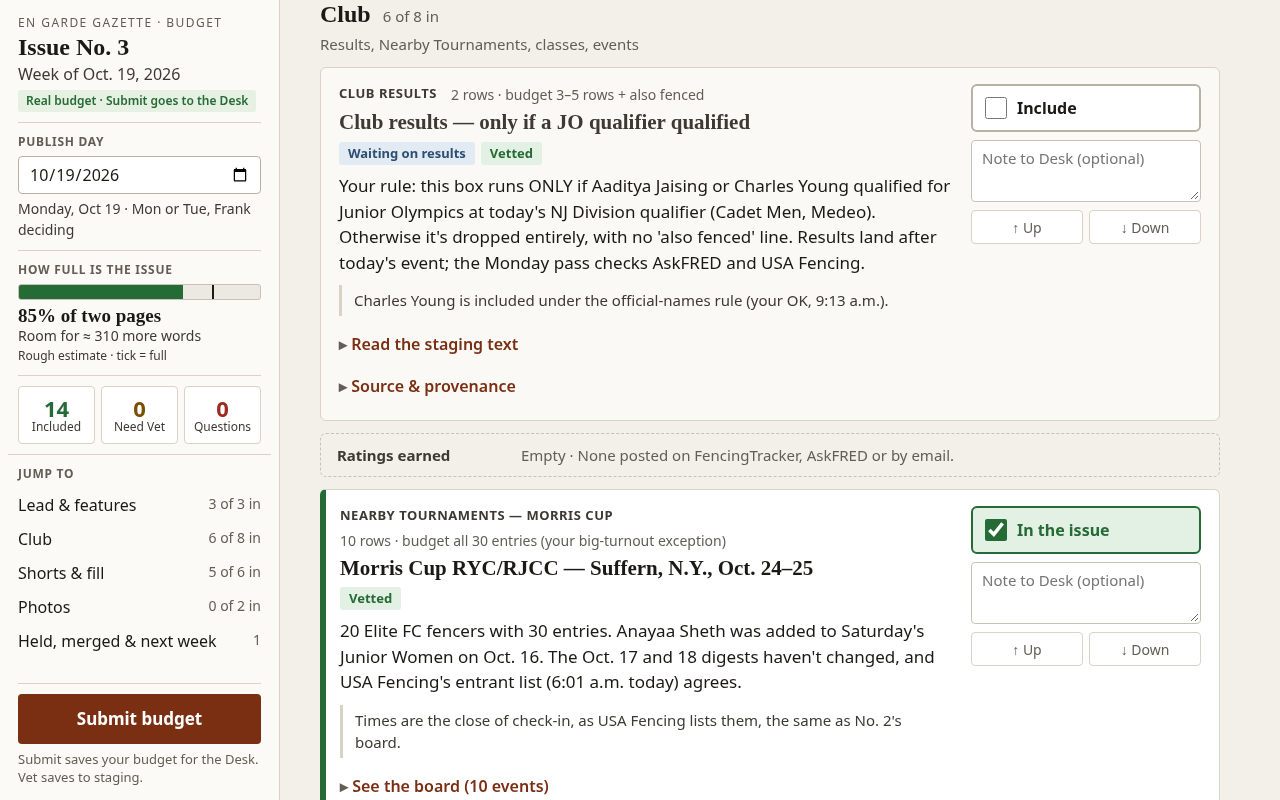
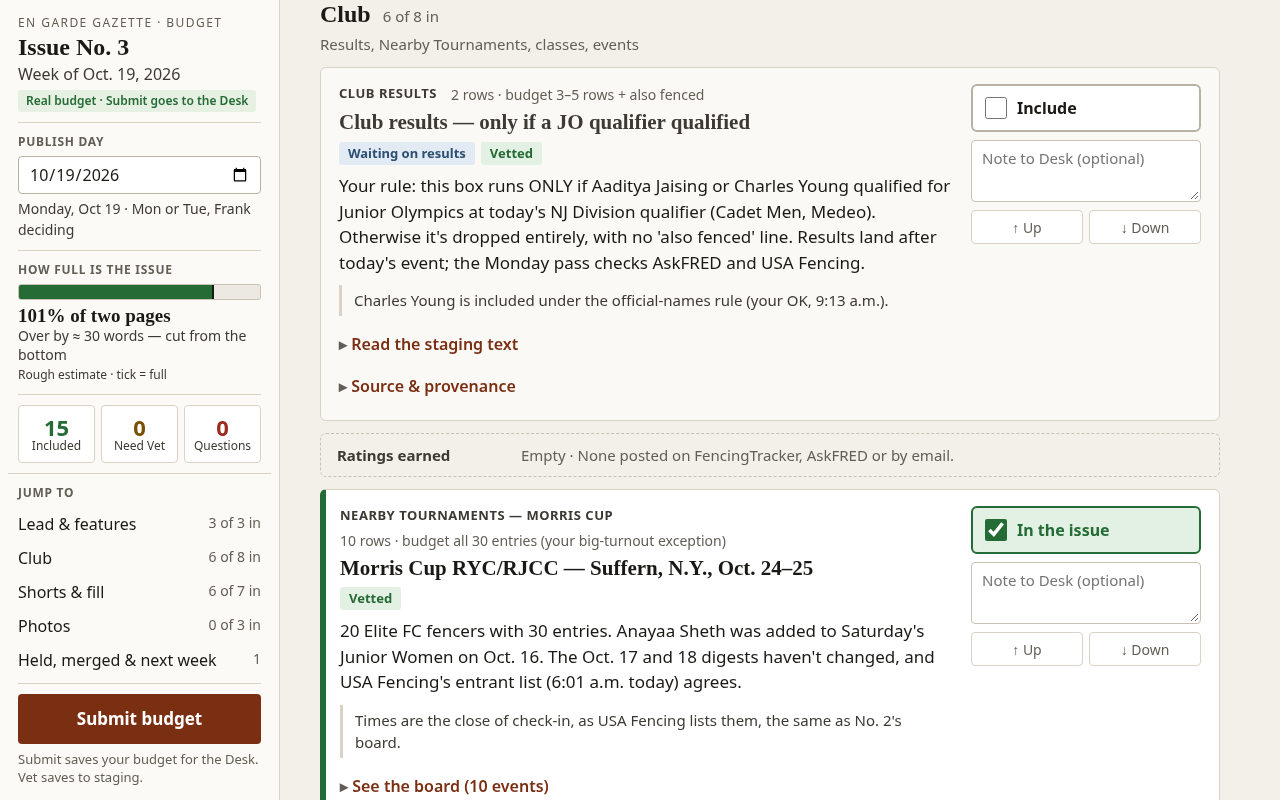
No. 3: add Photo from History 06 (1965 Dutch team epee, CC0) to budget, page 2 1-col; figure cost counts words

Changed region(s): [[0.0, 0.375, 0.2188, 0.8438], [0.125, 0.3438, 0.1875, 0.375]]

diff --git a/budget-demo/practice.html b/budget-demo/practice.html
@@ -449,7 +449,7 @@ textarea#globalNotes{width:100%;min-height:96px;padding:10px 12px;border:1px sol
     if (c.type === "table") return (C.table_head + (c.rows || 0) * (span >= 3 ? C.row_full : C.row_rail) + C.gap) * span;
     if (c.type === "table_rows") return (c.rows || 0) * C.row_rail;
     if (c.type === "qa") return C.head_short + (itemWords(it) || 40) / C.wpi + C.gap;
-    if (c.type === "figure") { var wIn = span >= 2 ? C.span2_width_in : C.col_width_in; return (wIn * (c.h / c.w) + C.caption_in + C.gap) * span; }
+    if (c.type === "figure") { var wIn = span >= 2 ? C.span2_width_in : C.col_width_in; return (wIn * (c.h / c.w) + C.caption_in + C.gap) * span + (c.words ? c.words / C.wpi : 0) + (c.head ? C.head_short : 0); }
     return 0;
   }
   function updateTotals() {

diff --git a/CHANGELOG.md b/CHANGELOG.md
@@ -3,7 +3,7 @@
 Newest first. Earlier versions (v3.3–v3.19) are summarized in PLAN.md (status line, §8, §9).
 
 ## v3.37 — 2026-10-18
-- **New recurring optional section: Photo from History** (Frank 2026-10-18, relayed by Grok Bot): one epee photo per issue, caption + credit mandatory, about 100–150 words including the caption (SECTIONS-MENU). New cross-issue pile `staging/history-photos/`: 12 entries distilled from Frank's research library (one compact .md each, plus a resized ≤1600 px JPEG), INDEX.md and a 3-line rights note. All 11 Commons licenses were spot-checked and match; 04 (LA84) is public domain by its 1928 publication date (US). Not yet in a budget; Frank picks.
+- **New recurring optional section: Photo from History** (Frank 2026-10-18, relayed by Grok Bot): one epee photo per issue, caption + credit mandatory, about 100–150 words including the caption (SECTIONS-MENU). New cross-issue pile `staging/history-photos/`: 12 entries distilled from Frank's research library (one compact .md each, plus a resized ≤1600 px JPEG), INDEX.md and a 3-line rights note. All 11 Commons licenses were spot-checked and match; 04 (LA84) is public domain by its 1928 publication date (US). Not yet in a budget; Frank picks. **Update 15:15 ET:** Frank approved 06 for No. 3 (page 2, 1 col, grayscale OK; INDEX marked). The budget page's figure cost now also counts caption/blurb/credit words (`cost.words`, optional `cost.head`).
 
 ## v3.36 — 2026-10-18
 - **Claude Code is an optional second reviewer** (Frank 2026-10-18, relayed by Grok Bot): (a) copy check after vetting, before budget/compose; (b) proof check of rendered PNGs alongside Desk's own visual QA; (c) site and code work. Desk stays the writer and source-of-truth keeper; Claude Code never adds facts. Skip it if it's unavailable. PLAN §6, STAGING § Claude Code. First run: No. 3 copy check (Opus); taken/rejected fixes are logged in each item's `vet_notes`.

diff --git a/staging/history-photos/INDEX.md b/staging/history-photos/INDEX.md
@@ -11,7 +11,7 @@ Epee photos with ready captions, blurbs, credits and licenses. The pile is share
 | 03 | [The forbidden weapon in Nedo Nadi’s five-gold summer](03-nedo-nadi.md) | July 1912 according to Commons | Public domain (US) | 1-col only (380×799) | |
 | 04 | [Lucien Gaudin and the Olympic “extra-final”](04-lucien-gaudin.md) | 1928 Olympic context | Public domain (US) | yes (732×511) | |
 | 05 | [1936: When epee learned to light up](05-electric-epee-1936.md) | 2016-06-22 (modern photo of an artifact) | CC BY-SA 3.0 France | yes (1280×1280) | |
-| 06 | [1965: Club epee, with everyone close enough to watch](06-dutch-team-epee-1965.md) | 1965-11-21 | CC0 1.0 Universal | yes (1055×1600) | |
+| 06 | [1965: Club epee, with everyone close enough to watch](06-dutch-team-epee-1965.md) | 1965-11-21 | CC0 1.0 Universal | yes (1055×1600) | No. 3 (2026-10-19) |
 | 07 | [1976: The light came on—but there was no touch](07-epee-fair-play-1976.md) | 2006-05-25 (modern illustration) | Public domain (author) | 1-col only (640×480) | |
 | 08 | [1980: Johan Harmenberg’s gold—and a different way forward](08-harmenberg-moscow-1980.md) | 1980, Moscow Olympics | CC BY-SA 3.0 Unported | yes (885×682) | |
 | 09 | [Laura Flessel: two golds at the start of an Olympic era](09-laura-flessel.md) | 2013-03-03 | CC BY 2.5 | yes (1092×1600) | |
